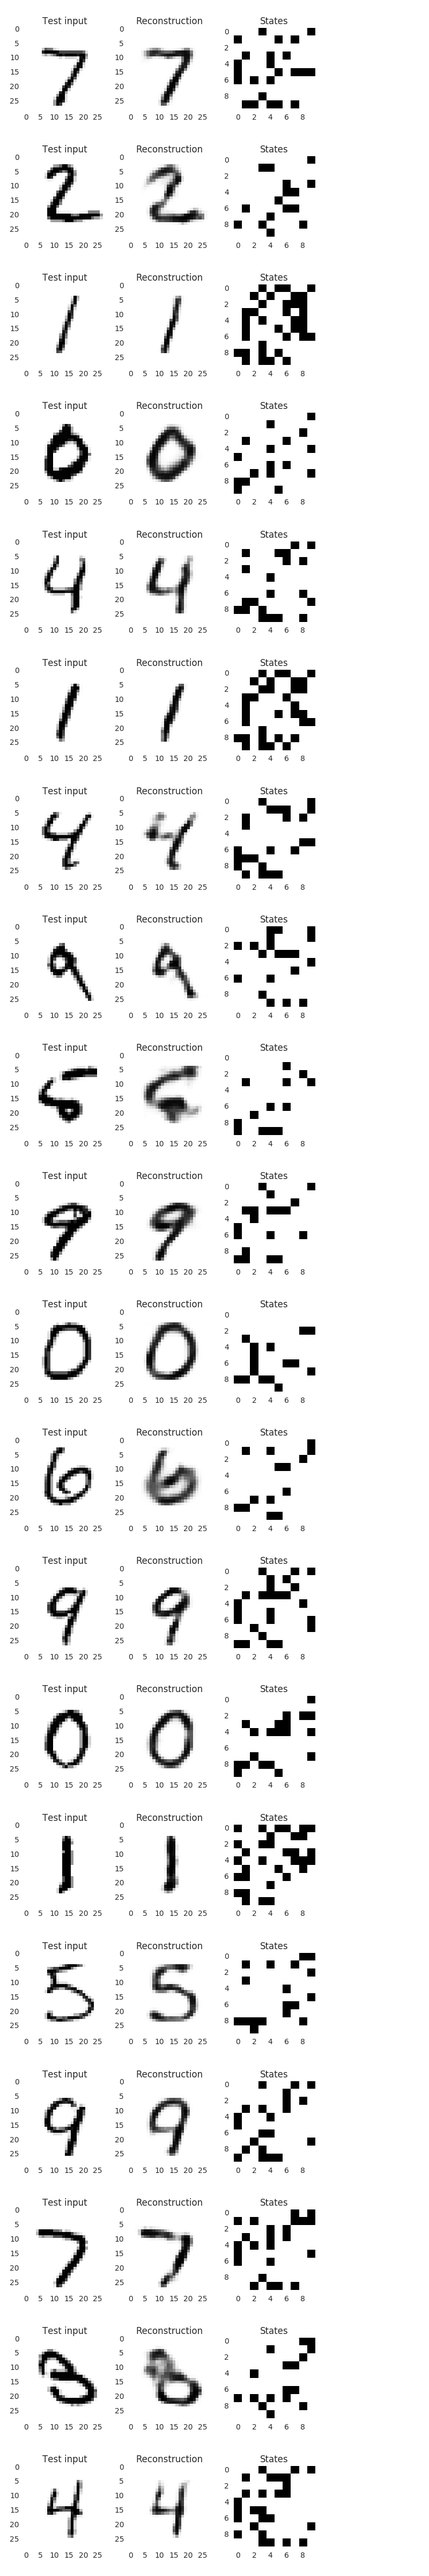
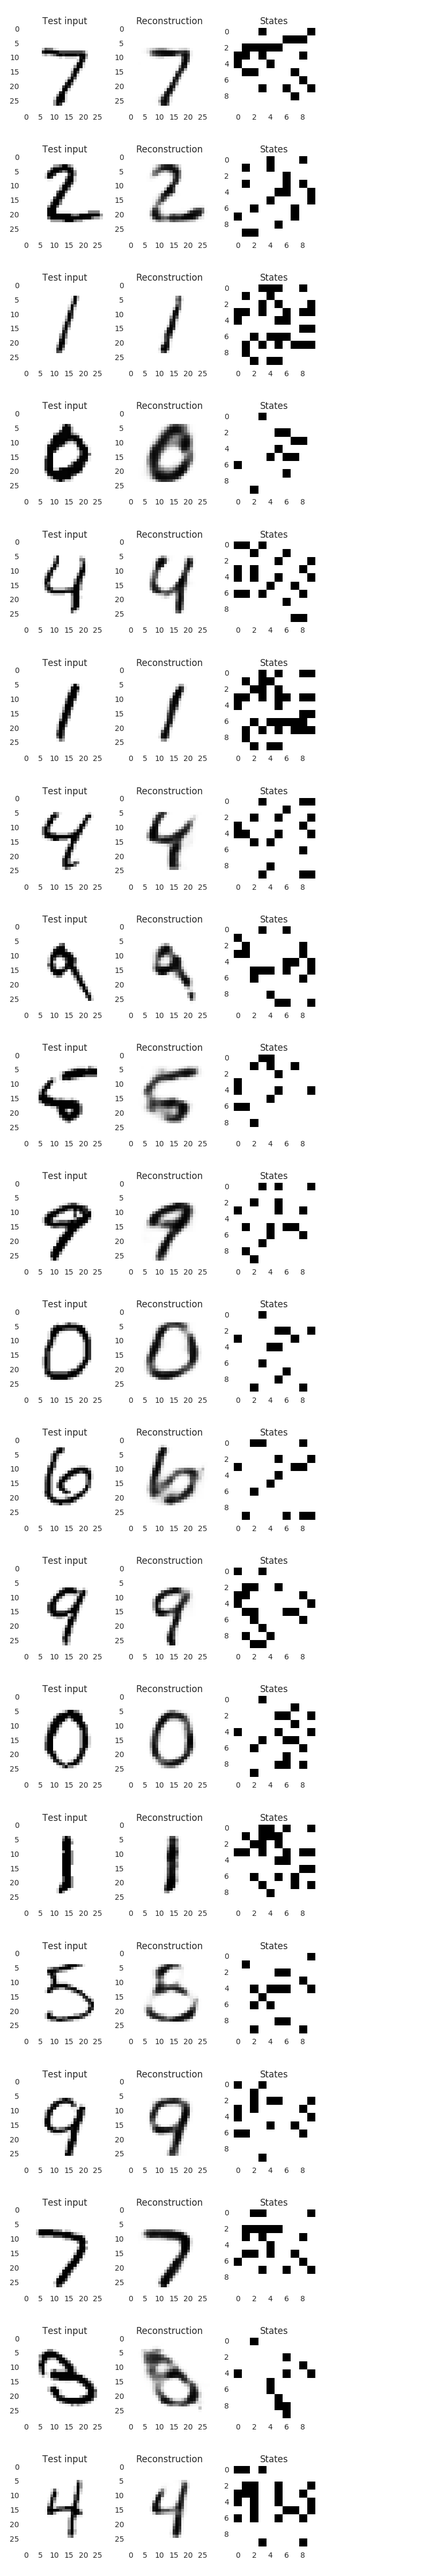
lab4 update

diff --git a/lab4/ex2b.py b/lab4/ex2b.py
@@ -1,0 +1,68 @@
+import tensorflow as tf
+from tensorflow.examples.tutorials.mnist import input_data
+import matplotlib.pyplot as plt
+import seaborn as sns
+from RBM import draw_reconstructions, draw_weights, RBM, sample_prob
+sns.set_style("dark")
+
+mnist = input_data.read_data_sets("MNIST_data/", one_hot=True)
+trX, trY, teX, teY = mnist.train.images, mnist.train.labels, mnist.test.images,\
+    mnist.test.labels
+Nv = 784
+v_shape = (28, 28)
+Nh = 100
+h1_shape = (10, 10)
+
+
+batch_size = 100
+epochs = 5
+n_samples = mnist.train.num_examples
+
+total_batch = int(n_samples / batch_size) * epochs
+
+X = tf.placeholder("float", [None, 784])
+
+with tf.variable_scope("l1"):
+    rbm1 = RBM(X, 100)
+with tf.variable_scope("l2"):
+    rbm2 = RBM(rbm1.out_prob, 784, inbias=rbm1.b_out)
+
+rbm2.create_rec()
+rbm1.create_rec(rbm2.rec)
+
+with tf.Session() as sess:
+    sess.run(tf.global_variables_initializer())
+    sess.run(tf.assign(rbm2.W, tf.transpose(rbm1.W)))
+
+    for i in range(total_batch):
+        batch, label = mnist.train.next_batch(batch_size)
+        err, _ = sess.run([rbm1.mse, rbm1.train_op], feed_dict={X: batch})
+
+        if i % 100 == 0:
+            print("RBM1", i, "[%d]" % total_batch, err)
+
+    for i in range(total_batch):
+        batch, label = mnist.train.next_batch(batch_size)
+        err, _ = sess.run([rbm2.mse, rbm2.train_op], feed_dict={X: batch})
+
+        if i % 100 == 0:
+            print("RBM2", i, "[%d]" % total_batch, err)
+
+    w1s = rbm1.W.eval()
+    w2s = rbm2.W.eval()
+    vb1s = rbm1.b_in.eval()
+    hb1s = rbm1.b_out.eval()
+    vr, h1s, h2s = sess.run([rbm1.rec, rbm1.out, rbm2.out], feed_dict={X: teX[:20, :]})
+
+# vizualizacija težina
+draw_weights(w1s, v_shape, Nh)
+plt.savefig("ex2b_RBM_weights_1")
+draw_weights(w2s, (10, 10), 784)
+plt.savefig("ex2b_RBM_weights_2")
+
+# vizualizacija rekonstrukcije i stanja
+draw_reconstructions(teX, vr, h1s, v_shape, h1_shape, Nh)
+plt.savefig("ex2b_RBM_reconstruction_1")
+
+draw_reconstructions(teX, vr, h2s, v_shape, (28, 28), 784)
+plt.savefig("ex2b_RBM_reconstruction_2")

diff --git a/lab4/ex2.py b/lab4/ex2.py
@@ -1,0 +1,63 @@
+import tensorflow as tf
+from tensorflow.examples.tutorials.mnist import input_data
+import matplotlib.pyplot as plt
+import seaborn as sns
+from RBM import draw_reconstructions, draw_weights, RBM, sample_prob
+sns.set_style("dark")
+
+mnist = input_data.read_data_sets("MNIST_data/", one_hot=True)
+trX, trY, teX, teY = mnist.train.images, mnist.train.labels, mnist.test.images,\
+    mnist.test.labels
+Nv = 784
+v_shape = (28, 28)
+Nh = 100
+h1_shape = (10, 10)
+
+
+batch_size = 100
+epochs = 20
+n_samples = mnist.train.num_examples
+
+total_batch = int(n_samples / batch_size) * epochs
+
+X = tf.placeholder("float", [None, 784])
+
+with tf.variable_scope("l1"):
+    rbm1 = RBM(X, 100)
+with tf.variable_scope("l2"):
+    rbm2 = RBM(rbm1.out_prob, 121, inbias=rbm1.b_out)
+
+rbm2.create_rec()
+rbm1.create_rec(rbm2.rec)
+
+with tf.Session() as sess:
+    sess.run(tf.global_variables_initializer())
+    for i in range(total_batch):
+        batch, label = mnist.train.next_batch(batch_size)
+        err, _ = sess.run([rbm1.mse, rbm1.train_op], feed_dict={X: batch})
+
+        if i % 100 == 0:
+            print("RBM1", i, "[%d]" % total_batch, err)
+
+    for i in range(total_batch):
+        batch, label = mnist.train.next_batch(batch_size)
+        err, _ = sess.run([rbm2.mse, rbm2.train_op], feed_dict={X: batch})
+
+        if i % 100 == 0:
+            print("RBM2", i, "[%d]" % total_batch, err)
+
+    w1s = rbm1.W.eval()
+    w2s = rbm2.W.eval()
+    vb1s = rbm1.b_in.eval()
+    hb1s = rbm1.b_out.eval()
+    vr, h1s = sess.run([rbm1.rec, rbm1.out], feed_dict={X: teX[:20, :]})
+
+# vizualizacija težina
+draw_weights(w1s, v_shape, Nh)
+plt.savefig("ex2_RBM_weights_1")
+draw_weights(w2s, (10, 10), 121)
+plt.savefig("ex2_RBM_weights_2")
+
+# vizualizacija rekonstrukcije i stanja
+draw_reconstructions(teX, vr, h1s, v_shape, h1_shape, Nh)
+plt.savefig("ex2_RBM_reconstruction")

diff --git a/lab4/RBM.py b/lab4/RBM.py
@@ -15,6 +15,7 @@ def sample_prob(probs):
 class RBM():
 
     def __init__(self, input_layer, num_out, inbias=None, outbias=None, gibbs_sampling_steps=1, alpha=0.1):
+        self.input_layer = input_layer
         n_in = input_layer.get_shape()[1]
         self.W = tf.get_variable(
             "W",
@@ -59,11 +60,15 @@ class RBM():
                 (-tf.reduce_mean(input_layer - v1_prob, 0), self.b_in),
                 (-tf.reduce_mean(h0 - h1, 0), self.b_out)
             ])
-
-        # rekonstrukcija ualznog vektora - koristimo vjerojatnost p(v=1)
-        self.rec = tf.nn.sigmoid(tf.matmul(h0, tf.transpose(self.W)) + self.b_in)
-        err1 = input_layer - self.rec
+        err1 = input_layer - tf.nn.sigmoid(tf.matmul(h0, tf.transpose(self.W)) + self.b_in)
         self.mse = tf.reduce_mean(err1 * err1)
+
+    def create_rec(self, upward_tensor=None):
+        # rekonstrukcija ualznog vektora - koristimo vjerojatnost p(v=1)
+        if upward_tensor is None:
+            upward_tensor = self.out
+        self.rec = tf.nn.sigmoid(tf.matmul(upward_tensor, tf.transpose(self.W)) + self.b_in)
+
 
 
 def draw_weights(W, shape, N, interpolation="bilinear"):

diff --git a/lab4/ex1.py b/lab4/ex1.py
@@ -23,6 +23,7 @@ total_batch = int(n_samples / batch_size) * epochs
 X = tf.placeholder("float", [None, 784])
 
 rbm = RBM(X, Nh)
+rbm.create_rec()
 
 with tf.Session() as sess:
     sess.run(tf.global_variables_initializer())
